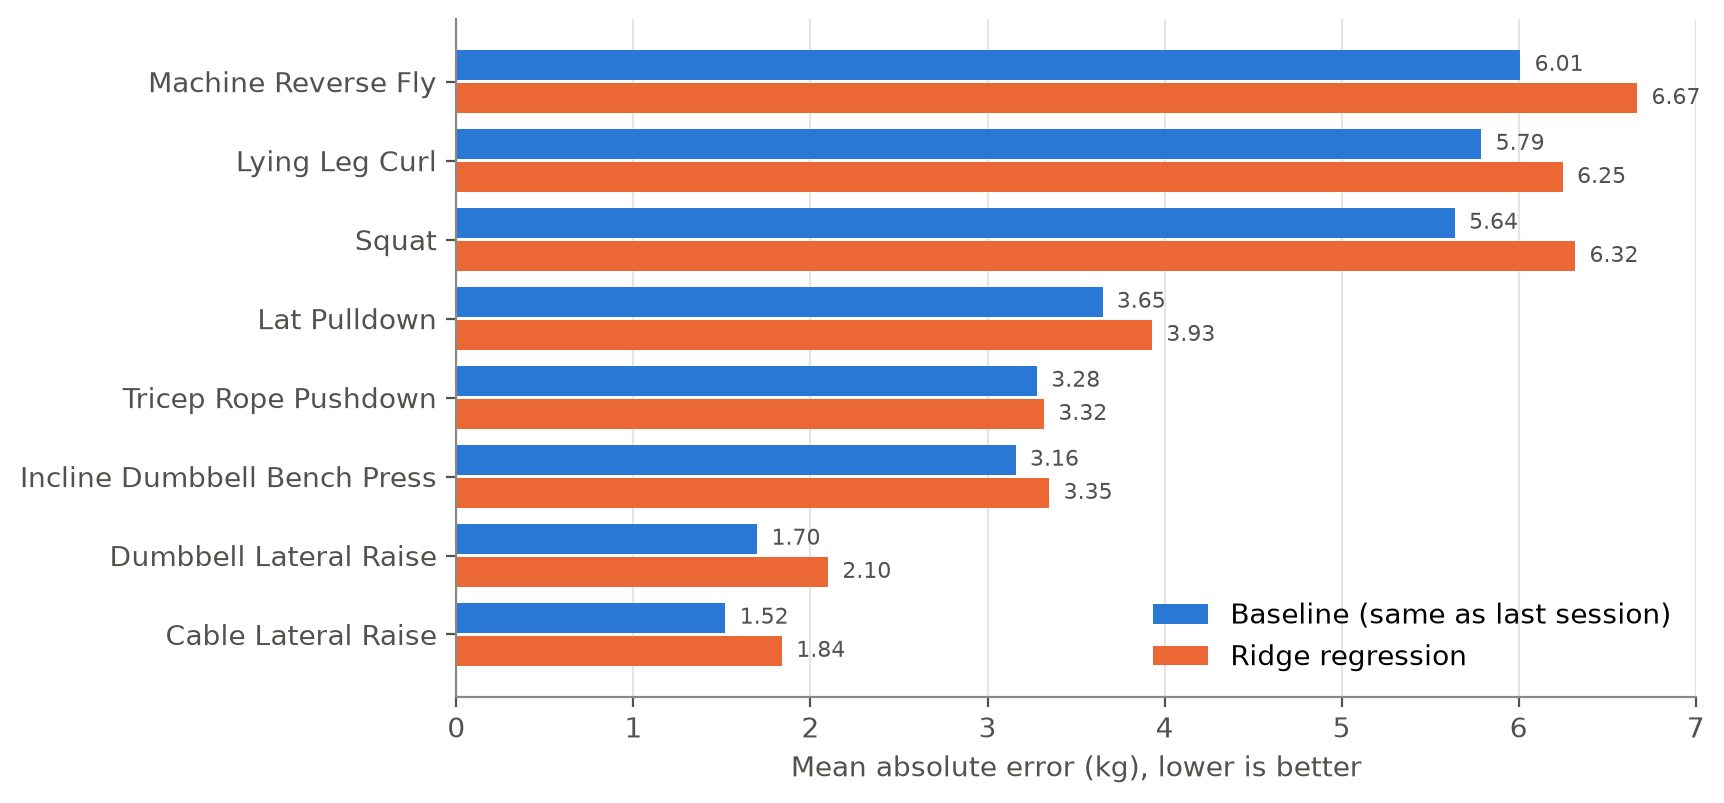
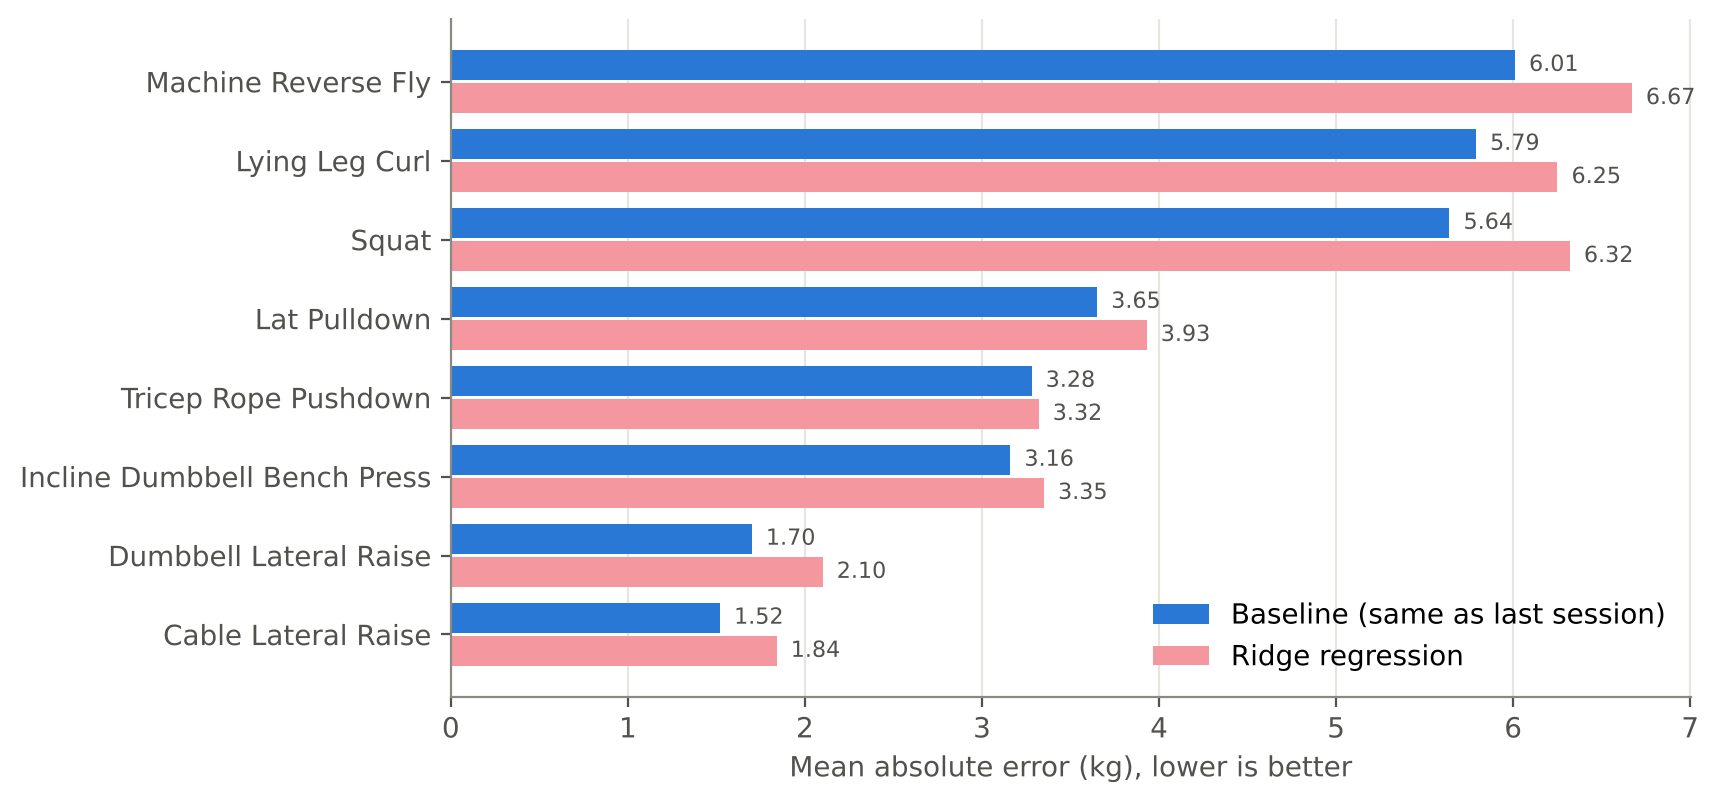
Add plain-language summary; fix report details, docstrings and journal

diff --git a/src/figures.py b/src/figures.py
@@ -25,6 +25,7 @@ OUT.mkdir(exist_ok=True)
 
 # Palette (validated reference palette, light mode) and recessive chrome.
 BLUE, ORANGE = "#2a78d6", "#eb6834"
+PINK = "#f4979e"  # light red, used for ridge regression in Figure 3
 INK, INK_2, INK_3 = "#0b0b0b", "#52514e", "#8a8984"
 GRID = "#e6e5e1"
 plt.rcParams.update({
@@ -94,7 +95,7 @@ h = 0.38
 fig, ax = plt.subplots(figsize=(8, 4.4))
 ax.barh([i + h / 2 + 0.02 for i in y], t["baseline_MAE"], height=h, color=BLUE,
         label="Baseline (same as last session)")
-ax.barh([i - h / 2 - 0.02 for i in y], t["ridge_MAE"], height=h, color=ORANGE,
+ax.barh([i - h / 2 - 0.02 for i in y], t["ridge_MAE"], height=h, color=PINK,
         label="Ridge regression")
 for i, (b, r) in enumerate(zip(t["baseline_MAE"], t["ridge_MAE"])):
     ax.text(b + 0.08, i + h / 2 + 0.02, f"{b:.2f}", va="center", fontsize=8, color=INK_2)

diff --git a/README.md b/README.md
@@ -2,20 +2,31 @@
 
 A single-athlete case study by Javokhir Abduraxmonov (Tashkent, 2026).
 
-I logged my training for 22 months in the LiftOff app. This project asks
-whether that log can predict my strength in the next session of an
-exercise, measured as estimated one-repetition maximum (e1RM), more
-accurately than the simplest rule: *it will be the same as last time*.
+**Question:** I logged every set I lifted for 22 months. Can that log
+predict how strong I will be in my next session better than the simplest
+rule, "it will be the same as last time"?
 
-For my data, the answer is no. Across 244 predictions on eight exercises,
-no model I tested beat that rule.
+**Answer:** No, not for me. Across 244 predictions on eight exercises,
+every model I tried was less accurate than that rule.
+
+**Why:** My strength barely changes from one session to the next (27.5%
+of the time it did not change at all), so the last session is already a
+good guess, and what probably drives the bigger jumps, like effort or how
+I felt that day, is not in the log.
+
+![Average prediction error per exercise: the "same as last time" rule has a lower error than ridge regression on all eight exercises](reports/figures/fig3_error_by_exercise.png)
+
+*Average prediction error per exercise, in kg (lower is better). "Same as
+last time" (blue) beat ridge regression (light red) on all eight exercises,
+though on Tricep Rope Pushdown only by 0.03 kg (the chart's 3.28 and 3.32
+are rounded).*
 
 **Full report:** [Research_Report.pdf](reports/Research_Report.pdf)
 (APA style, 19 pages; [Word version](reports/Research_Report.docx))
 
 ## Results
 
-Mean absolute error (MAE) of the 244 next-session predictions. Lower is better.
+Mean absolute error (MAE) over the same 244 predictions. Lower is better.
 
 | Method | MAE (kg) |
 |---|---|
@@ -25,41 +36,34 @@ Mean absolute error (MAE) of the 244 next-session predictions. Lower is better.
 | Random forest, same predictors | 4.25 |
 | Mean of the last three sessions | 5.03 |
 
-![Mean absolute error by exercise for the baseline and ridge regression](reports/figures/fig3_error_by_exercise.png)
-
-- Ridge regression was less accurate than the baseline on all eight
-  exercises, though on Tricep Rope Pushdown by only 0.03 kg (3.316 vs
-  3.283 kg; the figure rounds these to 3.32 and 3.28). Over all 244
-  predictions, the difference was significant (paired Wilcoxon
-  signed-rank test, *p* < .001).
-- No set of predictors did better than using none: every model in the
-  feature ablation had a higher error than the no-predictor model (3.97 kg).
-- The result held when only sets of 10 or fewer repetitions were counted,
-  and when the Brzycki equation replaced the Epley equation.
-- Apple Watch sleep data did not help. On the 82 sessions with sleep data,
-  adding it raised the error from 4.64 to 4.91 kg (*p* = .64).
-
-Most changes between sessions are small: the score stayed exactly the same
-27.5% of the time, and 58% of changes were smaller than 2.5 kg. What
-probably drives the rest, such as effort, readiness on the day and which
-machine I used, is not in the log.
+- Over all 244 predictions, ridge regression was significantly less
+  accurate than the baseline (paired Wilcoxon signed-rank test,
+  *p* < .001).
+- No predictor helped: every model in the feature ablation was worse
+  than using no predictors at all (3.97 kg).
+- The result held with only sets of 10 or fewer reps, and with the
+  Brzycki equation instead of Epley.
+- Apple Watch sleep data did not help: on 82 sessions, adding it raised
+  the error from 4.64 to 4.91 kg (*p* = .64).
+- Limits: one athlete, 22–40 predictions per exercise, and effort (RPE)
+  was never logged.
 
 ## Method in brief
 
 - **Data:** my LiftOff export, 2,645 sets from July 26, 2024 to
   May 28, 2026. Two logging errors (14 sets) were removed.
-- **Score:** for each session, the e1RM of the best set, using the Epley
-  equation: weight × (1 + reps / 30).
+- **Score:** for each session, the estimated one-rep max (e1RM) of the
+  best set, using the Epley equation: weight × (1 + reps / 30).
 - **Exercises:** the eight exercises with at least 30 sessions before
   February 1, 2026 (324 sessions).
 - **Evaluation:** walk-forward. Each prediction uses only the sessions
   before it, and every model is refitted at each step, starting after 10
   sessions of history.
 - **Models:** ridge regression and a random forest, one per exercise,
-  predicting the change from the current session. The six predictors are
-  days since the previous session, the current score minus the recent
-  average, the spread of recent scores, session volume, the number of
-  earlier sessions, and the most reps in one set.
+  predicting the change from the current session from six predictors:
+  days since the last session, score versus the recent average, spread of
+  recent scores, session volume, number of earlier sessions, and most
+  reps in one set.
 
 ## Run it
 
